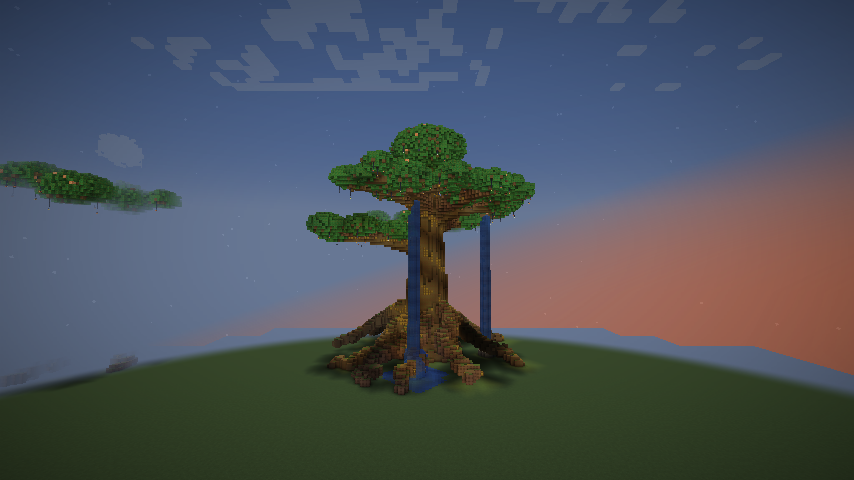
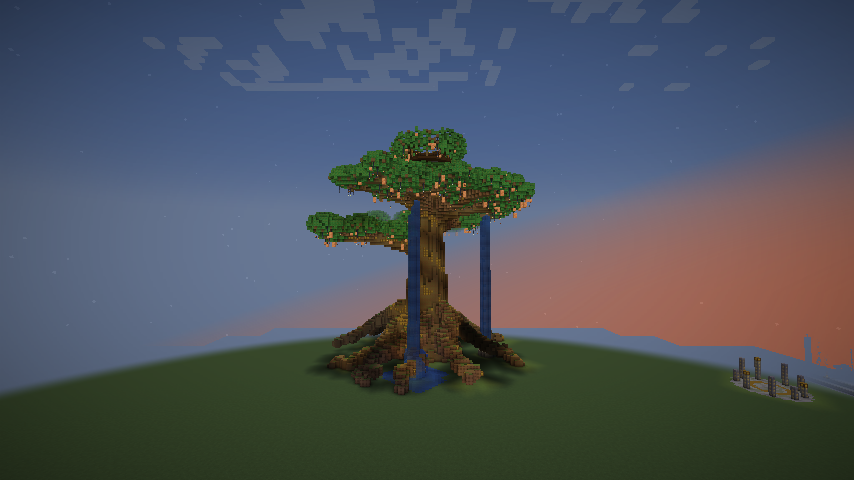
Site: Valhalla, shrine and circle variants, advancements and dusk captures; README

diff --git a/site/structures.html b/site/structures.html
@@ -26,8 +26,10 @@
   <p class="eyebrow">Structures</p>
   <h1 class="mc-h">Norse structures in the world</h1>
   <p class="lede">Three structures generate in new worlds. Each hides a relic in its chest. Walk, look, and bring a sword. Yggdrasil is the largest.</p>
-  <section class="struct" id="yggdrasil"><h2>Yggdrasil</h2><p>The world tree: a buttressed trunk with a gold rune spiral, root ridges that run out along the ground, sprawling branches under raised leaf clusters, a walkway with lanterns along one branch, vines and hanging lanterns, two waterfalls falling into stone-ringed pools, and an amethyst hollow at its foot with a doorway and a chest. Six variants are in the world pool, so no two trees need match.</p><div class="shots two"><figure class="shot"><img src="/img/shots/yggdrasil.png" alt="Yggdrasil by day: a huge tree with root ridges, two waterfalls and a wide canopy." width="854" height="480" loading="lazy"><figcaption>By day. A flat test world; the grass and sky are vanilla.</figcaption></figure><figure class="shot"><img src="/img/shots/yggdrasil-dusk.png" alt="Yggdrasil at dusk against an orange sky." width="854" height="480" loading="lazy"><figcaption>At dusk.</figcaption></figure><figure class="shot"><img src="/img/shots/yggdrasil-glow.png" alt="Looking up the trunk: a spiral of gold runes beside a waterfall." width="854" height="480" loading="lazy"><figcaption>Looking up the trunk, along the rune spiral.</figcaption></figure><figure class="shot"><img src="/img/shots/yggdrasil-lanterns.png" alt="Under a branch: glowing gold runes set into the wood, with leaves and the sunset beyond." width="854" height="480" loading="lazy"><figcaption>Rune veins under a branch.</figcaption></figure><figure class="shot"><img src="/img/shots/yggdrasil-door.png" alt="The root ridges and the doorway at the foot of the tree." width="854" height="480" loading="lazy"><figcaption>The foot of the tree and its doorway.</figcaption></figure></div><table class="data"><caption class="sr">Yggdrasil: facts</caption><tbody><tr><th scope="row">Size</th><td>85 by 85 blocks, 100 high (about 66,562 blocks, six variants)</td></tr><tr><th scope="row">Spacing</th><td>One in every 40 by 40 chunks, at least 12 chunks from the next</td></tr><tr><th scope="row">Biomes</th><td>taiga, forest</td></tr><tr><th scope="row">Chest</th><td>The hollow holds the Gjallarhorn, fruit, leaves and a golden apple. 1 in 4 chests (25%) hold the relic.</td></tr></tbody></table></section><section class="struct" id="thors_shrine"><h2>Thor’s shrine</h2><p>A stone dais with four lightning-rod pillars, a spire, a gold block altar and a chest. Lightning strikes the rods in a storm.</p><div class="shots two"><figure class="shot"><img src="/img/shots/shrine.png" alt="Thor’s shrine: four pillars topped with lightning rods around a central spire." width="854" height="480" loading="lazy"><figcaption>Thor’s shrine in a flat test world.</figcaption></figure></div><table class="data"><caption class="sr">Thor’s shrine: facts</caption><tbody><tr><th scope="row">Size</th><td>13 by 13 blocks, 12 high (about 330 blocks)</td></tr><tr><th scope="row">Spacing</th><td>One in every 28 by 28 chunks, at least 10 chunks from the next</td></tr><tr><th scope="row">Biomes</th><td>mountain, hill, plains, forest</td></tr><tr><th scope="row">Chest</th><td>The altar chest holds Mjölnir, metal and rune stone. 2 in 5 chests (40%) hold the relic.</td></tr></tbody></table></section><section class="struct" id="rune_circle"><h2>Rune circle</h2><p>Eight rune-stone pillars around a mossy floor, a chest and a soul lantern at the centre.</p><div class="shots two"><figure class="shot"><img src="/img/shots/rune-circle.png" alt="The rune circle: eight pillars carved with gold runes around a mossy floor." width="854" height="480" loading="lazy"><figcaption>The rune circle in a flat test world.</figcaption></figure></div><table class="data"><caption class="sr">Rune circle: facts</caption><tbody><tr><th scope="row">Size</th><td>13 by 13 blocks, 6 high (about 155 blocks)</td></tr><tr><th scope="row">Spacing</th><td>One in every 20 by 20 chunks, at least 8 chunks from the next</td></tr><tr><th scope="row">Biomes</th><td>taiga, forest, hill, plains</td></tr><tr><th scope="row">Chest</th><td>The chest holds Gungnir, ingredients for the gods’ potions and rune stone. 1 in 6 chests (17%) hold the relic.</td></tr></tbody></table></section>
-  <p class="meta">Status: all three generate with the game’s <code>/place structure</code> command on a Minecraft 1.21.4 server, and the captures above are from that client in a flat test world (the stone, trees and sky are vanilla). That the structures appear on their own in a fresh survival world is not yet confirmed: the game’s <code>/locate</code> found nothing near spawn on the test seed, and the same search for a vanilla village also found nothing, so that test proved neither way.</p>
+  <section class="struct" id="yggdrasil"><h2>Yggdrasil</h2><p>The world tree: a buttressed trunk with a gold rune spiral, root ridges that run out along the ground, sprawling branches under raised leaf clusters, a walkway with lanterns along one branch, vines, hanging lanterns and glowing fruit, and two waterfalls falling into stone-ringed pools. An amethyst hollow at its foot has a doorway and a chest, and a ladder climbs the trunk from the hollow to Valhalla, a hall on the crown with a chest of its own. Six variants are in the world pool, so no two trees need match.</p><div class="shots two"><figure class="shot"><img src="/img/shots/yggdrasil.png" alt="Yggdrasil by day: a huge tree with root ridges, two waterfalls and a wide canopy." width="854" height="480" loading="lazy"><figcaption>By day. A flat test world; the grass and sky are vanilla.</figcaption></figure><figure class="shot"><img src="/img/shots/yggdrasil-dusk.png" alt="Yggdrasil at dusk against an orange sky." width="854" height="480" loading="lazy"><figcaption>At dusk.</figcaption></figure><figure class="shot"><img src="/img/shots/yggdrasil-top.png" alt="The crown of Yggdrasil from the side, with the roofed hall of Valhalla at the top." width="854" height="480" loading="lazy"><figcaption>The crown, with Valhalla at the top.</figcaption></figure><figure class="shot"><img src="/img/shots/valhalla.png" alt="Inside Valhalla: a ring of pillars, a roof with an open centre, lanterns, and a chest on a gold block." width="854" height="480" loading="lazy"><figcaption>Inside Valhalla.</figcaption></figure><figure class="shot"><img src="/img/shots/yggdrasil-glow.png" alt="Looking up the trunk: a spiral of gold runes beside a waterfall." width="854" height="480" loading="lazy"><figcaption>Looking up the trunk, along the rune spiral.</figcaption></figure><figure class="shot"><img src="/img/shots/yggdrasil-lanterns.png" alt="Under a branch: glowing gold runes set into the wood, with leaves and the sunset beyond." width="854" height="480" loading="lazy"><figcaption>Rune veins under a branch.</figcaption></figure><figure class="shot"><img src="/img/shots/yggdrasil-door.png" alt="The root ridges and the doorway at the foot of the tree." width="854" height="480" loading="lazy"><figcaption>The foot of the tree and its doorway.</figcaption></figure></div><table class="data"><caption class="sr">Yggdrasil: facts</caption><tbody><tr><th scope="row">Size</th><td>85 by 85 blocks, 100 high (about 61,600 blocks, six variants)</td></tr><tr><th scope="row">Spacing</th><td>One in every 40 by 40 chunks, at least 12 chunks from the next</td></tr><tr><th scope="row">Biomes</th><td>taiga, forest</td></tr><tr><th scope="row">Chest</th><td>The hollow holds the Gjallarhorn, fruit, leaves and a golden apple. Valhalla, up the ladder, holds a relic more often. 1 in 4 chests (25%) hold the relic.</td></tr></tbody></table></section><section class="struct" id="thors_shrine"><h2>Thor’s shrine</h2><p>A three-tier stone dais with four lightning-rod pillars, glowing rune inlays, braziers at the four sides and a tall lightning-rod spire over a gold altar and chest. Three variants: one pillar is broken in each, and the stone is cracked and mossy to different degrees.</p><div class="shots two"><figure class="shot"><img src="/img/shots/shrine.png" alt="Thor’s shrine by day: tiered stone dais, four pillars topped with lightning rods and a central spire." width="854" height="480" loading="lazy"><figcaption>By day.</figcaption></figure><figure class="shot"><img src="/img/shots/shrine-dusk.png" alt="Thor’s shrine at dusk, with braziers lit and rune inlays glowing." width="854" height="480" loading="lazy"><figcaption>At dusk.</figcaption></figure></div><table class="data"><caption class="sr">Thor’s shrine: facts</caption><tbody><tr><th scope="row">Size</th><td>21 by 21 blocks, 17 high (about 1,089 blocks)</td></tr><tr><th scope="row">Spacing</th><td>One in every 28 by 28 chunks, at least 10 chunks from the next</td></tr><tr><th scope="row">Biomes</th><td>mountain, hill, plains, forest</td></tr><tr><th scope="row">Chest</th><td>The altar chest holds Mjölnir, metal and rune stone. 2 in 5 chests (40%) hold the relic.</td></tr></tbody></table></section><section class="struct" id="rune_circle"><h2>Rune circle</h2><p>Eight to eleven rune-stone pillars of uneven height around a floor of mossy stone, a glowing rune ring, soul lanterns on some capitals and a chest at the centre. Three variants; some pillars have fallen.</p><div class="shots two"><figure class="shot"><img src="/img/shots/rune-circle.png" alt="A rune circle by day: pillars carved with gold runes around a mossy floor." width="854" height="480" loading="lazy"><figcaption>By day.</figcaption></figure><figure class="shot"><img src="/img/shots/rune-circle-dusk.png" alt="The rune circle at dusk, its runes glowing." width="854" height="480" loading="lazy"><figcaption>At dusk.</figcaption></figure></div><table class="data"><caption class="sr">Rune circle: facts</caption><tbody><tr><th scope="row">Size</th><td>17 by 17 blocks, 9 high (about 275 blocks)</td></tr><tr><th scope="row">Spacing</th><td>One in every 20 by 20 chunks, at least 8 chunks from the next</td></tr><tr><th scope="row">Biomes</th><td>taiga, forest, hill, plains</td></tr><tr><th scope="row">Chest</th><td>The chest holds Gungnir, ingredients for the gods’ potions and rune stone. 1 in 6 chests (17%) hold the relic.</td></tr></tbody></table></section>
+  <h2>Advancements</h2>
+  <p>The mod adds a small tree of advancements: A Leaf for the Blessing, Heimdall’s Watch, The Spear That Never Misses, Worthy, Standing Stones, Thor’s Threshold, Beneath the World Tree.</p>
+  <p class="meta">Status: the structures generate with the game’s <code>/place structure</code> command on a Minecraft 1.21.4 server (Yggdrasil, the shrine and the circle were each placed that way; the variants and Valhalla’s ladder and chest were placed as templates for the captures, and nobody has climbed the ladder yet). The advancements load without errors but none has been earned in play, and the captures above are from that client in a flat test world (the stone, trees and sky are vanilla). That the structures appear on their own in a fresh survival world is not yet confirmed: the game’s <code>/locate</code> found nothing near spawn on the test seed, and the same search for a vanilla village also found nothing, so that test proved neither way.</p>
 </section>
 </main>
 <footer class="foot">

diff --git a/README.md b/README.md
@@ -11,7 +11,9 @@ Version 0.2 adds the rest of the Norse world:
 - **Yggdrasil**: log, leaves (drop a leaf or a fruit), a fruit to eat, and the Potion of Blessing (leaf on Awkward
   Potion).
 - **Structures** in new worlds: Yggdrasil (an 85 by 85 by 100 world tree in six random variants: gold rune spiral, root ridges, branches, a lantern walkway, waterfalls, vines, an amethyst hollow), Thor's shrine, and the rune circle,
-  each with a chest that can hold a relic. Rune stone is a craftable block; the glowing Yggdrasil Rune is found on the tree.
+  each with a chest that can hold a relic. Yggdrasil has a ladder up the trunk to Valhalla, a hall on the crown with its
+  own chest; the shrine and circle come in three variants each.
+- **Advancements**: a small tree from the rune circle to Mjölnir, Gungnir and the Gjallarhorn. Rune stone is a craftable block; the glowing Yggdrasil Rune is found on the tree.
 
 Status: the mod builds and loads on a 1.21.4 Fabric server; all three structures generate with `/place structure`;
 the icons and structures show in a real client. Using the relics, brewing, and natural spawning in a fresh survival world
